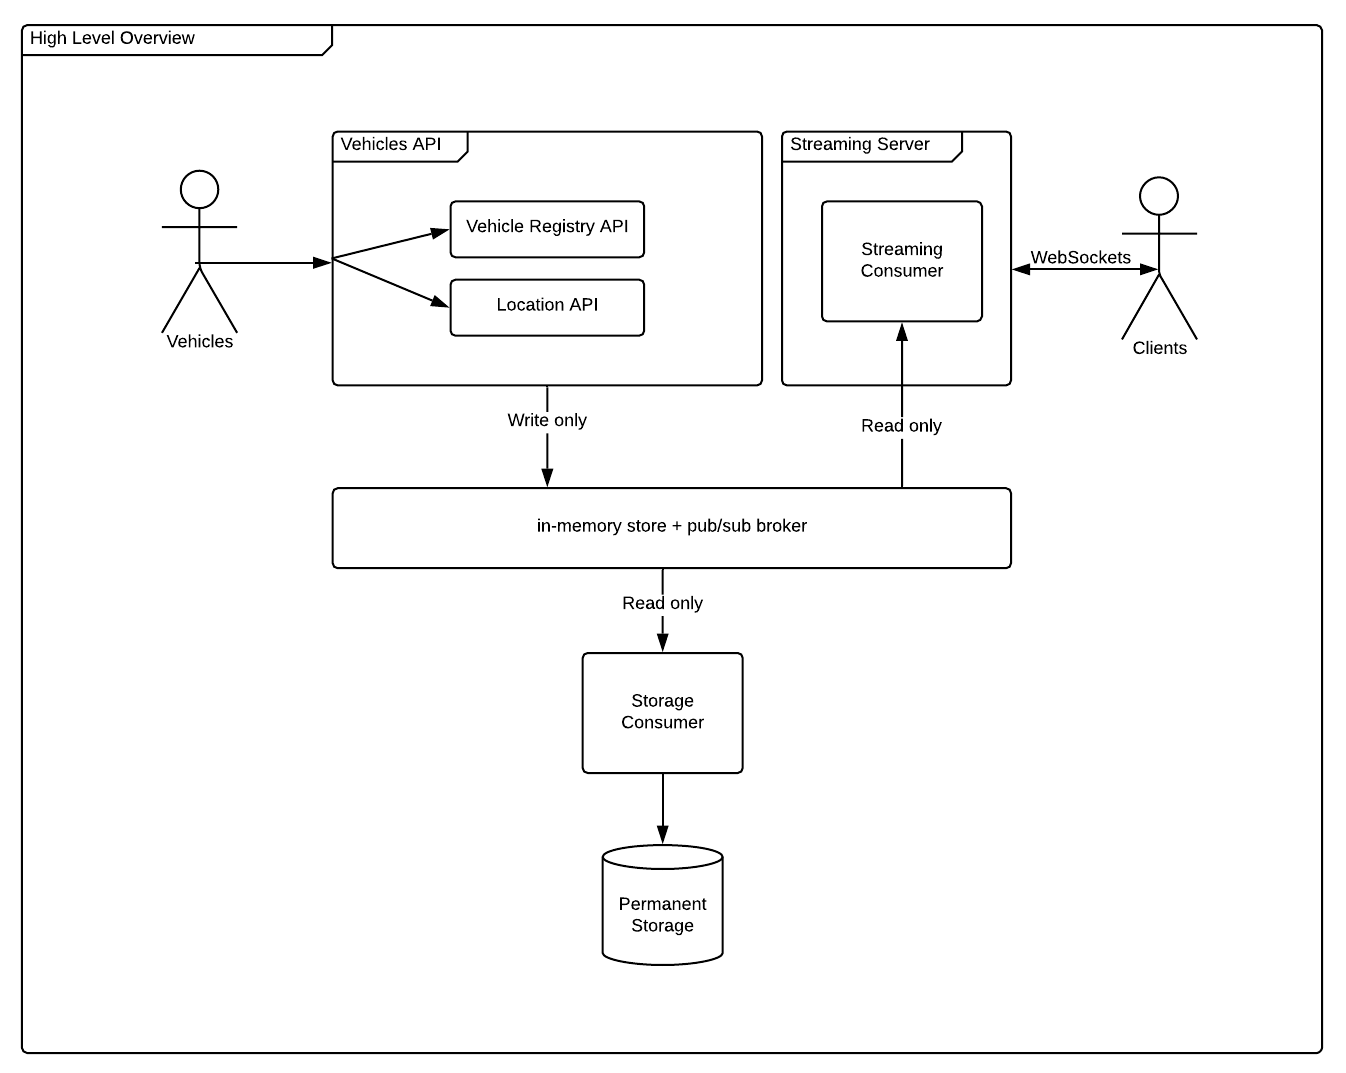
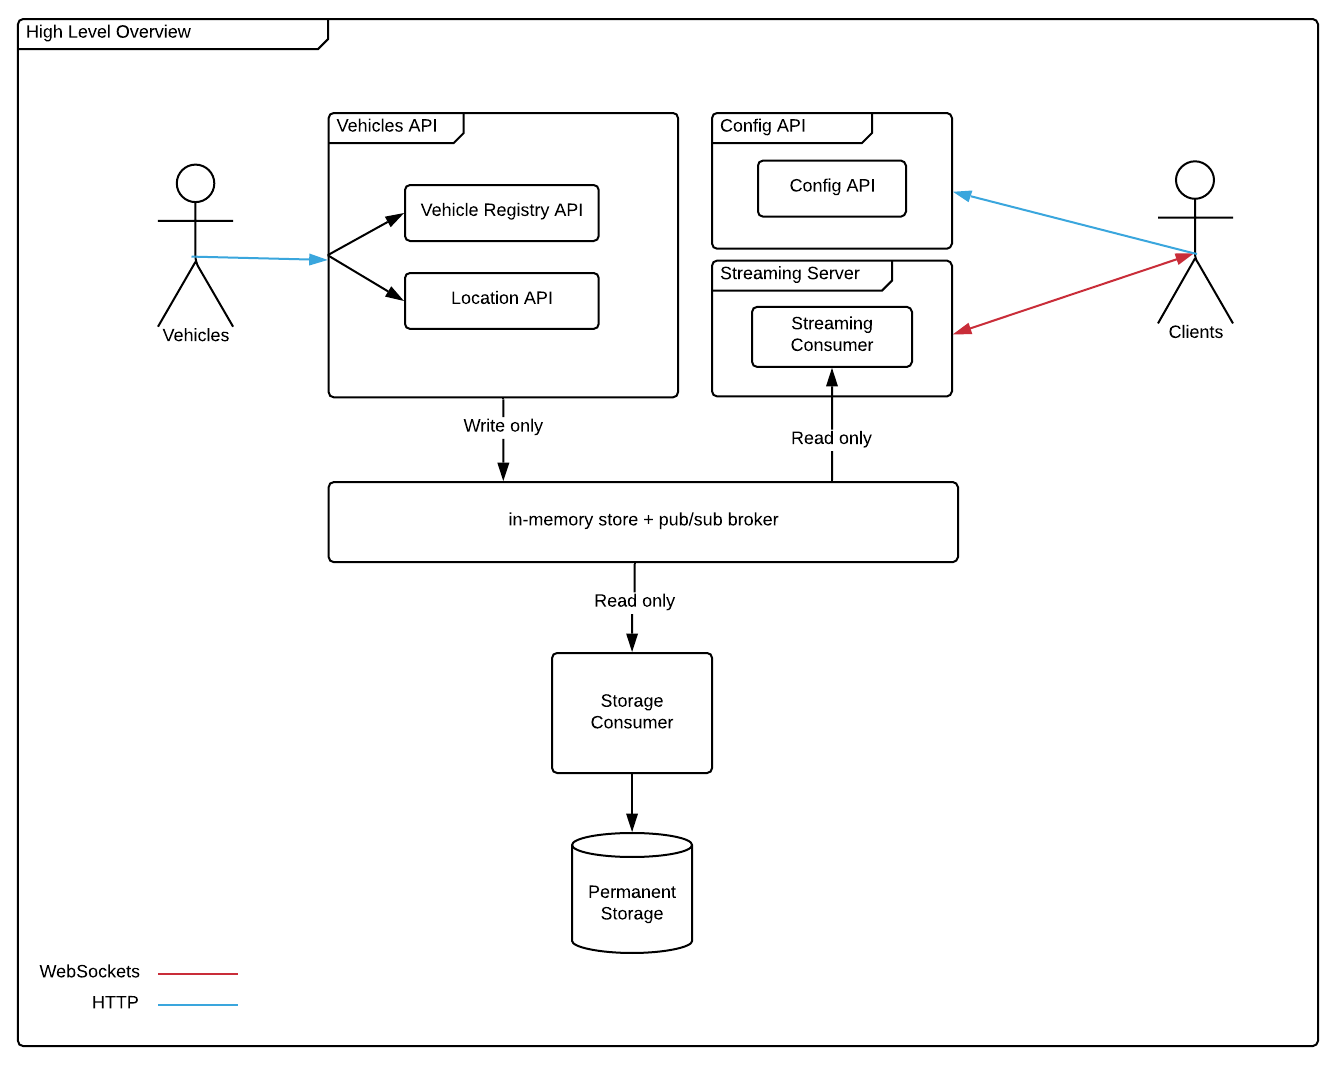
docs: Update documentation according to the latest improvements

diff --git a/README.md b/README.md
@@ -2,9 +2,10 @@
 
 ## API Overview
 
-The solution is composed of 3 components.
+The solution is composed by 4 components.
 
 - Vehicles API
+- Config API
 - Storage Consumer
 - Streaming Server
 
@@ -18,7 +19,8 @@ The solution is composed of 3 components.
 - Technologies
 	- Redis: for the store and pub/sub mechanism.
 	- MongoDB: for the permanent storage.
-	- WebSockets for the Streaming Server.
+	- WebSockets: for the Streaming Server.
+  - React: for the frontend.
 
 ### Vehicles API
 
@@ -28,10 +30,10 @@ The solution is composed of 3 components.
 
 [API Specification](https://d2d-backend-api.herokuapp.com)
 
-This API offer following services.
+This API offers the following services:
 
 - Vehicle registration / de-registration.
-- Vehicle location update
+- Vehicle location update.
 
 **Supported Operations**
 
@@ -41,6 +43,22 @@ This API offer following services.
 | POST | /api/v1/vehicles	| ```{"id":"some-uuid"}``` | No content | Registers a vehicle |
 | DELETE | /api/v1/vehicles/:uuid	|| No content | De-registers a vehicle |
 | POST | /api/v1/vehicles/:uuid/locations	|```{"lat":52.53, "lng":13.403, "at":"2019-09-30T10:22:23+0200", "id":"some-uuid"}```| No content | Receive vehicle location updates |
+
+### Config API
+
+[Live demo on heroku](https://d2d-backend-api.herokuapp.com)
+
+**Version:** 1
+
+[API Specification](https://d2d-backend-api.herokuapp.com)
+
+This API provides access to the service configuration parameters to clients.
+
+**Supported Operations**
+
+| Verb | Endpoint | Payload | Response | Description |
+| -----------| --------------|----|----|------------ |
+| GET | /api/v1/config || {"centralPoint": {"lat": 52.53, "lng": 13.403}, "limitRadiusInKm": 3.5} | Service Operation Parameters |
 
 ### Streaming Server
 
@@ -92,7 +110,6 @@ webSocket.onmessage = (event) => {
 }
 ```
 
-
 ## Setup
 
 ## Docker
@@ -110,20 +127,32 @@ $ docker-compose up    # to start the services (-d to start in daemon mode)
 
 ### Instalation
 
+#### Backend
+
 ```bash
 $ git clone https://github.com/jcfausto/d2d-backend.git
 $ cd d2d-backend
 $ bundle install
 ```
 
-### Test before running
+#### Frontend
+
+Note: Available at ```/public/frontend/```.
+
+```bash
+$ cd public/frontend
+# To install the packages
+$ yarn
+```
+
+### Testing
 
 Notes:
 - Make sure you have MongoDB running on your machine at ```localhost:27017```.
 - During tests, redis-server will start and stop.
 
 
-To make sure everything works fine, run the tests before running the services.
+To make sure everything works fine, please run the tests before running the services.
 
 ```bash
 $ rake test
@@ -133,7 +162,7 @@ $ rake test
 
 Notes:
 - Make sure you have Redis running and available at ```localhost:6379```
-- You'll need 3 terminal windows for running the application.
+- You'll need 4 terminal windows for running the application.
 
 ```bash
 # First terminal: start the api
@@ -150,12 +179,17 @@ $ rake start:consumers
 $ rake start:streaming
 ```
 
+```bash
+# Fourth terminal: start the web client
+$ rake start:web
+```
+
 ### Using the service
 
 - The API can be reached at [http://localhost:3000](http://localhost:3000)
 - The Streaming Server can be reached at [http://localhost:9292](http://localhost:9292)
   - It will accept WebSocket connections.
-  - It will provide a webpage at ```/``` to visualize vehicle locations that are being streamed.
+- The WEB client can be reached at [http://localhost:3001](http://localhost:3001)
 
 There are a few ways you can test the service.
 
@@ -177,15 +211,6 @@ const req = http.request(
 
 #### Running door2door simulator
 See: [Driver Simulator Instructions](https://github.com/door2door-io/d2d-code-challenges/tree/master/resources/driver-simulator)
-
-Note: There's a super simple frontend at ```/public/frontend/``` that can be used for visualizing the streaming of locations.
-
-```bash
-# To install the packages
-$ yarn
-# To run the app
-$ yarn start
-```
 
 #### Run API Performance Tests
 
